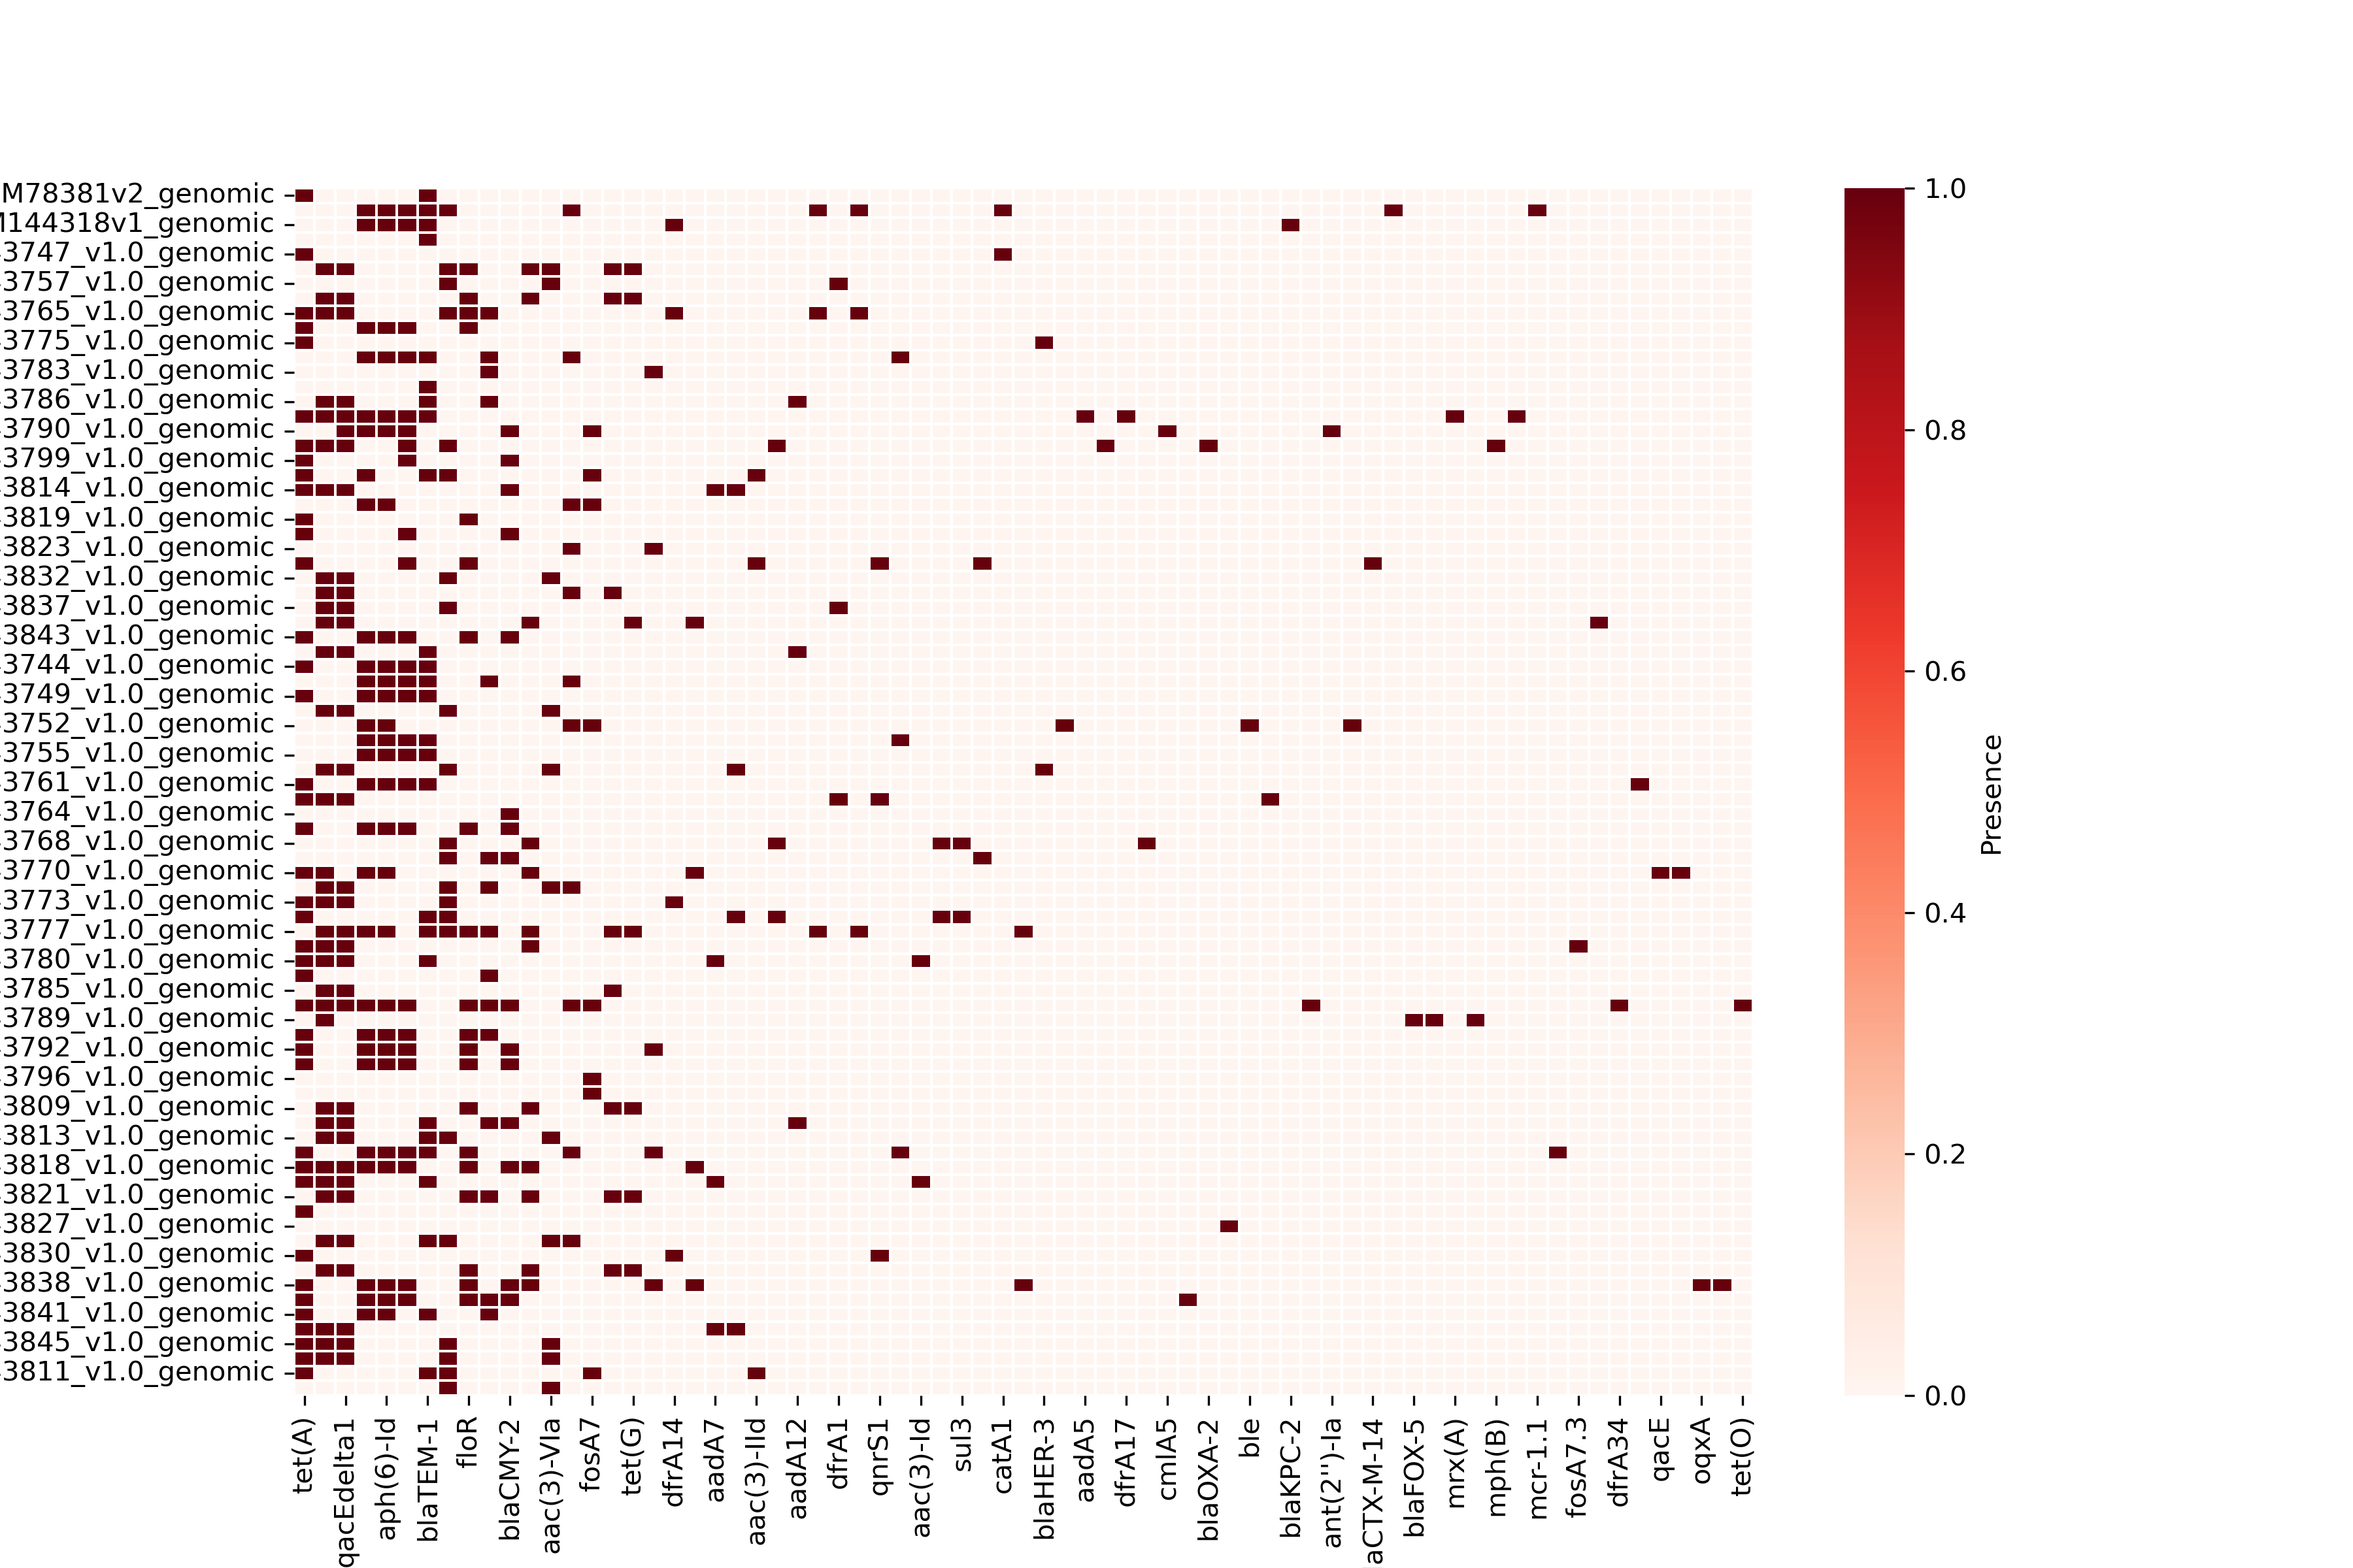
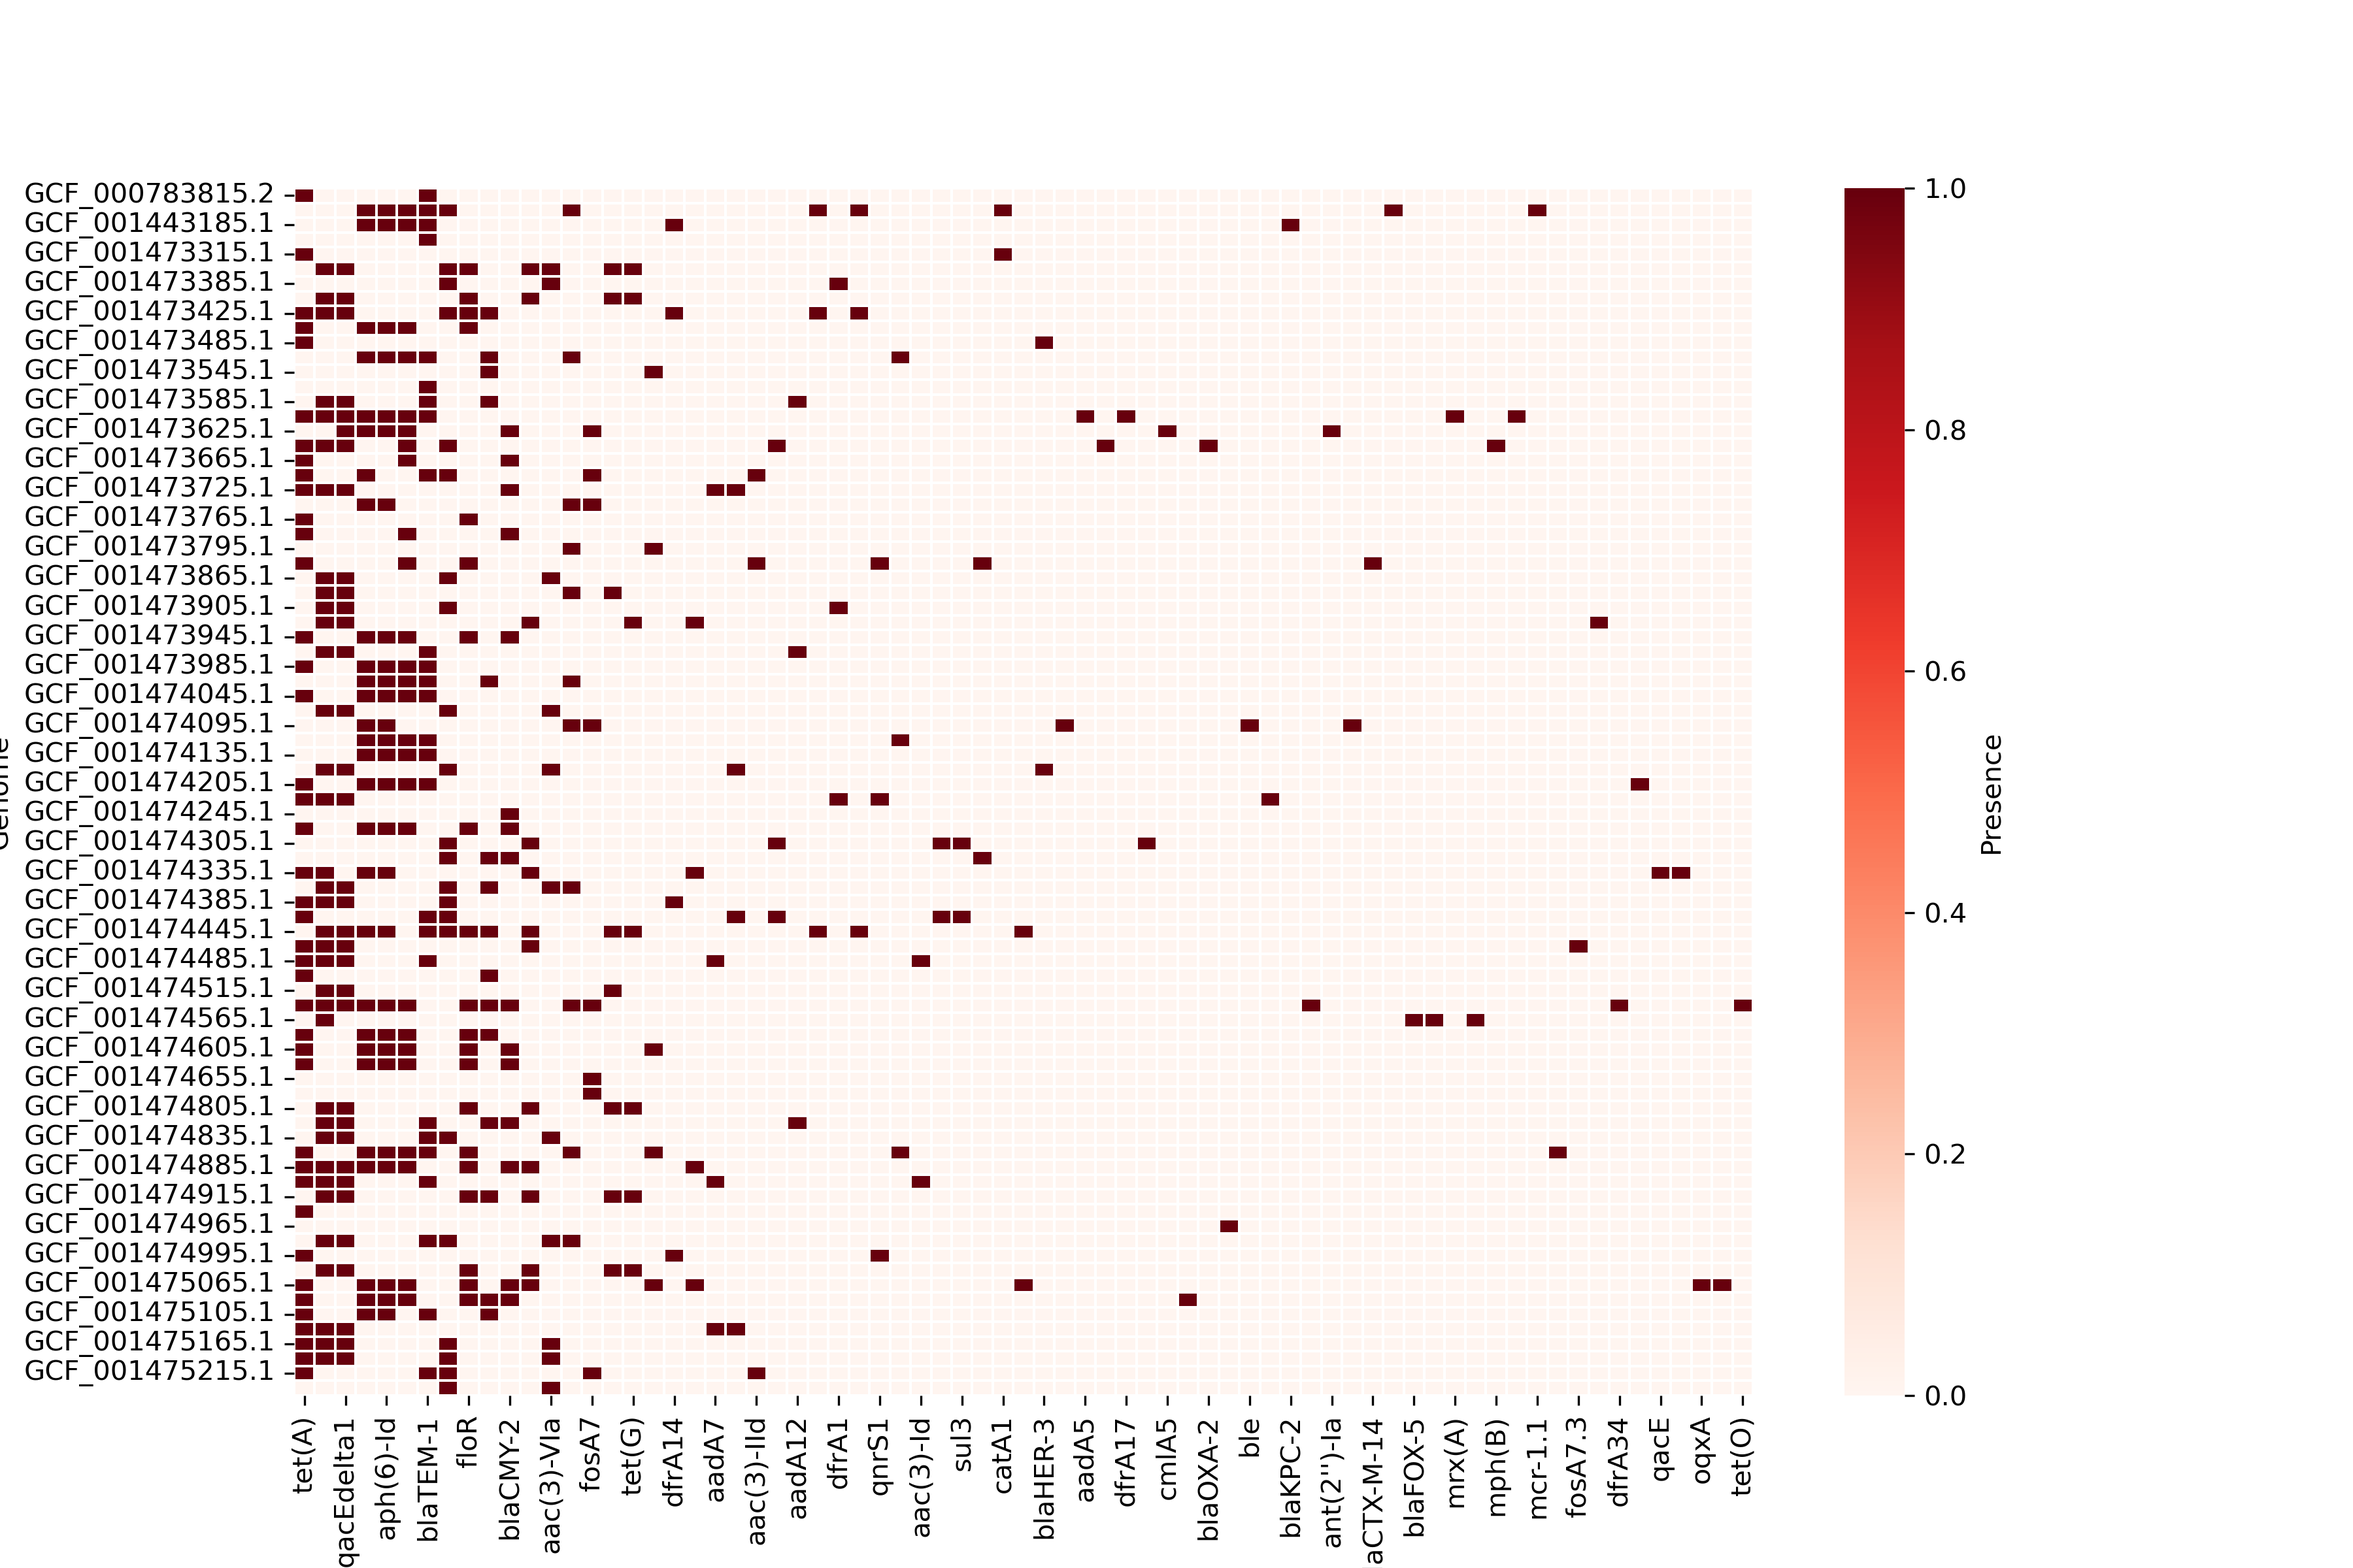
Initial commit

Changed region(s): [[0.0, 0.0938, 0.1244, 0.9062]]

diff --git a/scripts/plot_class_per_genome.py b/scripts/plot_class_per_genome.py
@@ -1,37 +1,34 @@
-#!/usr/bin/env python3
-# -*- coding: utf-8 -*-
-
 import pandas as pd
 import seaborn as sns
 import matplotlib.pyplot as plt
 
-# --- Load files ---
+# Load files
 df_genes = pd.read_csv("amr_gene_presence.csv")
 df_map = pd.read_csv("gene_antibiotic_class.csv")
 
-# --- Normalize gene names ---
+# Normalize gene names
 df_genes['Gene_norm'] = df_genes['Gene'].str.replace('Δ', 'delta', regex=False).str.strip()
 df_map['Gene_norm'] = df_map['Gene'].str.replace('Δ', 'delta', regex=False).str.strip()
 
-# --- Merge gene presence with drug classes ---
+# Merge gene presence with drug classes
 df_merged = df_genes.merge(df_map[['Gene_norm','Class']], on='Gene_norm', how='left')
 
-# --- Check for unmapped genes ---
+# Check for unmapped genes
 unmapped = df_merged[df_merged['Class'].isna()]['Gene'].unique()
 if len(unmapped) > 0:
     print("Warning: Some genes were not mapped to any class:", unmapped)
 
-# --- Create binary presence/absence table ---
+# Create binary presence/absence table
 df_classes = df_merged.pivot_table(index='Genome', columns='Class', aggfunc='size', fill_value=0)
 
-# --- Take top 50 genomes by total number of resistance classes ---
+# Take top 50 genomes by total number of resistance classes
 top50 = df_classes.sum(axis=1).sort_values(ascending=False).head(50).index
 df_top50 = df_classes.loc[top50]
 
 # Shorten genome labels to accession only
 df_top50.index = df_top50.index.str.split('_').str[0] + '_' + df_top50.index.str.split('_').str[1]
 
-# --- Plot clustered heatmap ---
+# Plot clustered heatmap
 sns.set(font_scale=1.0)
 g = sns.clustermap(
     df_top50,
@@ -49,5 +46,5 @@ g.cax.yaxis.set_label_position('left')
 g.cax.set_position([0.03, 0.05, 0.01, 0.18]) 
 # [left, bottom, width, height] in figure coordinates (0 to 1)
 
-plt.savefig("amr_classes_per_genome.png", dpi=300)
+plt.savefig("figures/amr_classes_per_genome.png", dpi=300)
 plt.show()

diff --git a/scripts/plot_amr_cooccurrence_network.py b/scripts/plot_amr_cooccurrence_network.py
@@ -13,14 +13,11 @@ df = df.dropna(subset=["Class"])
 # Genome → resistance classes
 genome_classes = df.groupby("Genome")["Class"].unique()
 
-# -------------------------
 # Node frequency (for size)
 # -------------------------
 class_freq = df["Class"].value_counts()
 
-# -------------------------
 # Co-occurrence counts
-# -------------------------
 pair_counts = {}
 
 for classes in genome_classes:
@@ -35,24 +32,16 @@ pairs_df = pd.DataFrame(
 # keep stronger links
 pairs_df = pairs_df[pairs_df["Weight"] >= 5]
 
-# -------------------------
 # Build network
-# -------------------------
 G = nx.Graph()
 
 for _, row in pairs_df.iterrows():
     G.add_edge(row["Class1"], row["Class2"], weight=row["Weight"])
 
-# -------------------------
 # Node size scaling
-# -------------------------
 node_sizes = [class_freq[n]*50 for n in G.nodes()]
 
-# Optional node coloring
-node_colors="lightblue"
-# -------------------------
 # Plot
-# -------------------------
 plt.figure(figsize=(8,8))
 
 pos = nx.spring_layout(G, seed=42, k=0.2)
@@ -82,7 +71,6 @@ nx.draw_networkx_edges(
     connectionstyle="arc3,rad=0.1"
 )
 
-# Edge labels (number of genomes sharing both classes)
 edge_labels = {(u, v): d["weight"] for u, v, d in G.edges(data=True)}
 
 nx.draw_networkx_edge_labels(
@@ -95,6 +83,6 @@ nx.draw_networkx_edge_labels(
 plt.title("Co-occurrence Network of Antibiotic Resistance Classes")
 plt.axis("off")
 plt.tight_layout()
-plt.savefig("amr_class_network.png", dpi=300)
+plt.savefig("figures/amr_class_network.png", dpi=300)
 
 plt.show()

diff --git a/scripts/plot_multidrug_genomes.py b/scripts/plot_multidrug_genomes.py
@@ -2,15 +2,11 @@
 import pandas as pd
 import matplotlib.pyplot as plt
 
-# ======================
 # Load data
-# ======================
 df_genes = pd.read_csv("amr_gene_presence.csv")  # genome-gene mapping
 df_map = pd.read_csv("gene_antibiotic_class.csv")  # gene-class mapping
 
-# ======================
 # Merge gene presence with classes
-# ======================
 df_merged = df_genes.merge(df_map, on="Gene", how="left")
 
 # Drop genes without a mapped class
@@ -18,17 +14,14 @@ df_merged = df_merged.dropna(subset=["Class"])
 
 # Truncate genome name to accession number
 df_merged["Genome"] = df_merged["Genome"].str.extract(r"(GC[AF]_\d+\.\d+)")
-# ======================
+
 # Count resistance classes per genome
-# ======================
 resistance_counts = df_merged.groupby("Genome")["Class"].nunique().sort_values(ascending=False)
 
 # Save to CSV
 resistance_counts.to_csv("resistance_count_per_genome.csv", header=True)
 
-# ======================
 # Plot horizontal bar chart
-# ======================
 top_n = 30
 top_genomes = resistance_counts.head(top_n)
 
@@ -51,7 +44,7 @@ for i, v in enumerate(top_genomes[::-1]):
 plt.xlabel("Number of Resistance Classes")
 plt.ylabel("Genome Accession")
 plt.title(f"Top {top_n} Multidrug-Resistant Salmonella Genomes")
-
 plt.tight_layout()
-plt.savefig("multidrug-resistant_salmonella_genome", dpi=300)
+plt.savefig("figures/multidrug-resistant_salmonella_genome", dpi=300)
+
 plt.show()

diff --git a/scripts/plot_amr_gene_class_composition.py b/scripts/plot_amr_gene_class_composition.py
@@ -2,8 +2,8 @@ import pandas as pd
 import matplotlib.pyplot as plt
 
 # Load your data
-df_genes = pd.read_csv("amr_gene_presence.csv")          # Genome-Gene presence
-df_map = pd.read_csv("gene_antibiotic_class.csv")        # Gene -> Class mapping
+df_genes = pd.read_csv("amr_gene_presence.csv")
+df_map = pd.read_csv("gene_antibiotic_class.csv")
 
 # Merge to get classes for each gene
 df_merged = pd.merge(df_genes, df_map, on="Gene", how="left")
@@ -17,10 +17,8 @@ class_counts = df_merged['Class'].value_counts()
 # Convert to percentages
 class_percent = class_counts / class_counts.sum() * 100
 
-# Identify small classes (<2%)
+# Identify and save small classes (<2%)
 small_classes = class_percent[class_percent < 3].index
-
-# Save genes belonging to those classes
 others_table = df_merged[df_merged["Class"].isin(small_classes)][["Gene","Class"]].drop_duplicates()
 others_table.to_csv("amr_other_classes_table.csv", index=False)
 
@@ -42,5 +40,5 @@ plt.pie(
 )
 plt.title("Gene-Class Composition Across 100 Salmonella Genomes")
 plt.tight_layout()
-plt.savefig("amr_gene_class_composition.png", dpi=300)
+plt.savefig("figures/amr_gene_class_composition.png", dpi=300)
 plt.show()

diff --git a/scripts/plot_amr_heatmap.py b/scripts/plot_amr_heatmap.py
@@ -5,6 +5,9 @@ import matplotlib.pyplot as plt
 # Load presence data
 df = pd.read_csv("amr_gene_presence.csv")
 
+# Truncate genome name to accession number
+df["Genome"] = df["Genome"].str.extract(r"(GC[AF]_\d+\.\d+)")
+
 # Pivot to matrix: genomes x genes
 matrix = df.assign(Presence=1).pivot_table(index='Genome', columns='Gene', values='Presence', fill_value=0)
 
@@ -17,12 +20,12 @@ freq.columns = ["Gene", "Count"]
 # Plot heatmap
 plt.figure(figsize=(12,8))
 sns.heatmap(matrix, cmap="Reds", cbar_kws={'label': 'Presence'}, linewidths=0.5)
-plt.savefig("amr_gene_heatmap_clustered.png", dpi=300)
+plt.savefig("figures/amr_gene_heatmap_clustered.png", dpi=300)
 
 freq.plot.bar(x="Gene", y="Count", figsize=(12,6), color="tomato")
-plt.title("AMR Gene Presence/Absence Heatmap")
+plt.title("AMR Gene Presence/Absence")
 plt.ylabel("Genomes")
 plt.xlabel("AMR Genes")
 plt.tight_layout()
-plt.savefig("amr_gene_frequency_bar.png", dpi=300)
+plt.savefig("figures/amr_gene_frequency_bar.png", dpi=300)
 plt.show()

diff --git a/scripts/plot_amr_classes.py b/scripts/plot_amr_classes.py
@@ -11,6 +11,6 @@ plt.ylabel("Gene Count")
 plt.xlabel("Antibiotic Class")
 
 plt.tight_layout()
-plt.savefig("amr_class_distribution.png", dpi=300)
+plt.savefig("figures/amr_class_distribution.png", dpi=300)
 
 plt.show()
